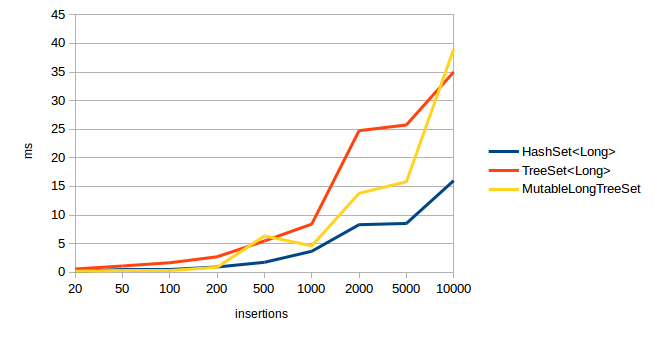
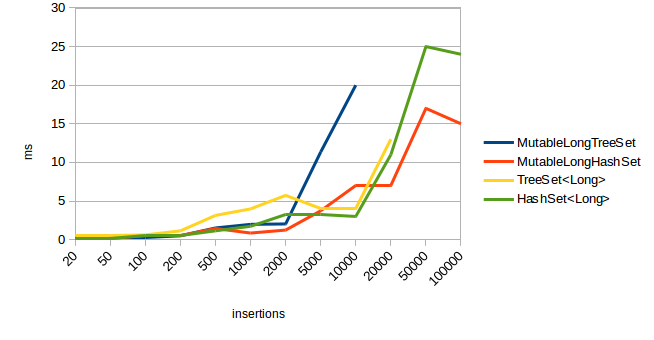
updated benchmarks

diff --git a/src/test/java/net/aquadc/blitz/Benchmark.java b/src/test/java/net/aquadc/blitz/Benchmark.java
@@ -15,71 +15,74 @@ import java.util.TreeSet;
  */
 public class Benchmark {
 
-    private static final int ITEMS = 10_000;
-
     @Before
     public void hang() throws Exception {
         Thread.sleep(300);
     }
 
     @Test
-    public void mlTreeSetContains() {
-        mlsContains(new MutableLongTreeSet());
-    }
-    @Test
-    public void mlHashSetContains() {
-        mlsContains(new MutableLongHashSet());
+    public void benchmark() {
+        System.out.println("# insertions");
+        int seed = "insertions".hashCode();
+        for (int items : new int[] {20, 50, 100, 200, 500, 1000, 2000, 5000, 10_000, 20_000, 50_000, 100_000}) {
+            System.out.println("## " + items + " items");
+            populateMls(new MutableLongTreeSet(), items, seed, true);
+            populateMls(new MutableLongHashSet(), items, seed, true);
+            populateGenericSetOfLongs(new TreeSet<>(), items, seed, true);
+            populateGenericSetOfLongs(new HashSet<>(), items, seed, true);
+        }
+
+        System.out.println("# searches");
+        for (int items : new int[] {20, 50, 100, 200, 500, 1000, 2000, 5000, 10_000, 20_000, 50_000, 100_000}) {
+            System.out.println("## " + items + " items");
+            mlsContains(new MutableLongTreeSet(), items);
+            mlsContains(new MutableLongHashSet(), items);
+            runContainsTestOnGenericSet(new TreeSet<>(), items);
+            runContainsTestOnGenericSet(new HashSet<>(), items);
+        }
     }
 
-    private void mlsContains(MutableLongSet set) {
-        populateMls(set, ITEMS, "reads".hashCode());
+    private void mlsContains(MutableLongSet set, int items) {
+        populateMls(set, items, "reads".hashCode(), false);
         Random r = new Random("contains".hashCode());
         System.gc();
         long nanos = System.nanoTime();
         for (int i = 0; i < 1_000_000; i++) {
             set.contains(r.nextLong());
         }
-        showTime(System.nanoTime() - nanos, "MutableLongSet of " + ITEMS + " elements, 1 000 000 reads");
+        showTime(System.nanoTime() - nanos, set.getClass().getSimpleName() + " of " + items + " elements, 1 000 000 reads");
     }
 
-    @Test
-    public void tsContains() {
-        Set<Long> set = new TreeSet<>();
-        runContainsTestOnGenericSet(set);
-    }
-
-    @Test
-    public void hsContains() {
-        Set<Long> set = new HashSet<>();
-        runContainsTestOnGenericSet(set);
-    }
-
-    private void runContainsTestOnGenericSet(Set<Long> set) {
-        populateGenericSetOfLongs(set, ITEMS, "reads".hashCode());
+    private void runContainsTestOnGenericSet(Set<Long> set, int items) {
+        populateGenericSetOfLongs(set, items, "reads".hashCode(), false);
         Random r = new Random("contains".hashCode());
         System.gc();
         long nanos = System.nanoTime();
         for (int i = 0; i < 1_000_000; i++) {
             set.contains(r.nextLong());
         }
-        showTime(System.nanoTime() - nanos, set.getClass().getSimpleName() + " of " + ITEMS + " elements, 1 000 000 reads");
+        showTime(System.nanoTime() - nanos, set.getClass().getSimpleName() + " of " + items + " elements, 1 000 000 reads");
     }
 
-    private void populateMls(MutableLongSet set, int size, int seed) {
+    private void populateMls(MutableLongSet set, int size, int seed, boolean showTime) {
         Random r = new Random(seed);
         long nanos = System.nanoTime();
         while (set.size() < size) {
             set.add(r.nextLong());
         }
-        showTime(System.nanoTime() - nanos, "MutableLongTreeSet: " + size + " inserts");
+        if (showTime) {
+            showTime(System.nanoTime() - nanos, set.getClass().getSimpleName() + ": " + size + " inserts");
+        }
     }
-    private void populateGenericSetOfLongs(Set<Long> emptySet, int size, int seed) {
+    private void populateGenericSetOfLongs(Set<Long> emptySet, int size, int seed, boolean showTime) {
         Random r = new Random(seed);
         long nanos = System.nanoTime();
         while (emptySet.size() < size) {
             emptySet.add(r.nextLong());
         }
-        showTime(System.nanoTime() - nanos, emptySet.getClass().getSimpleName() + ": " + size + " inserts");
+        if (showTime) {
+            showTime(System.nanoTime() - nanos, emptySet.getClass().getSimpleName() + ": " + size + " inserts");
+        }
     }
 
     private void showTime(long nanos, String tag) {

diff --git a/README.md b/README.md
@@ -71,6 +71,14 @@ public interface PrimitiveSet<E> {
 
 ![insertions](benchmarks/insersions.png)
 
+TreeSets are out of scale,
+our array-based MutableLongTreeSet hangs on `System.arraycopy()`
+
+ Insertions         | 20k | 50k | 100k
+--------------------|-----|-----|-----
+ MutableLongTreeSet | 59  | 474 | 1872
+ TreeSet            | 13  | 34  | 60
+
 ![searches](benchmarks/searches.png)
 
 ## Threading
